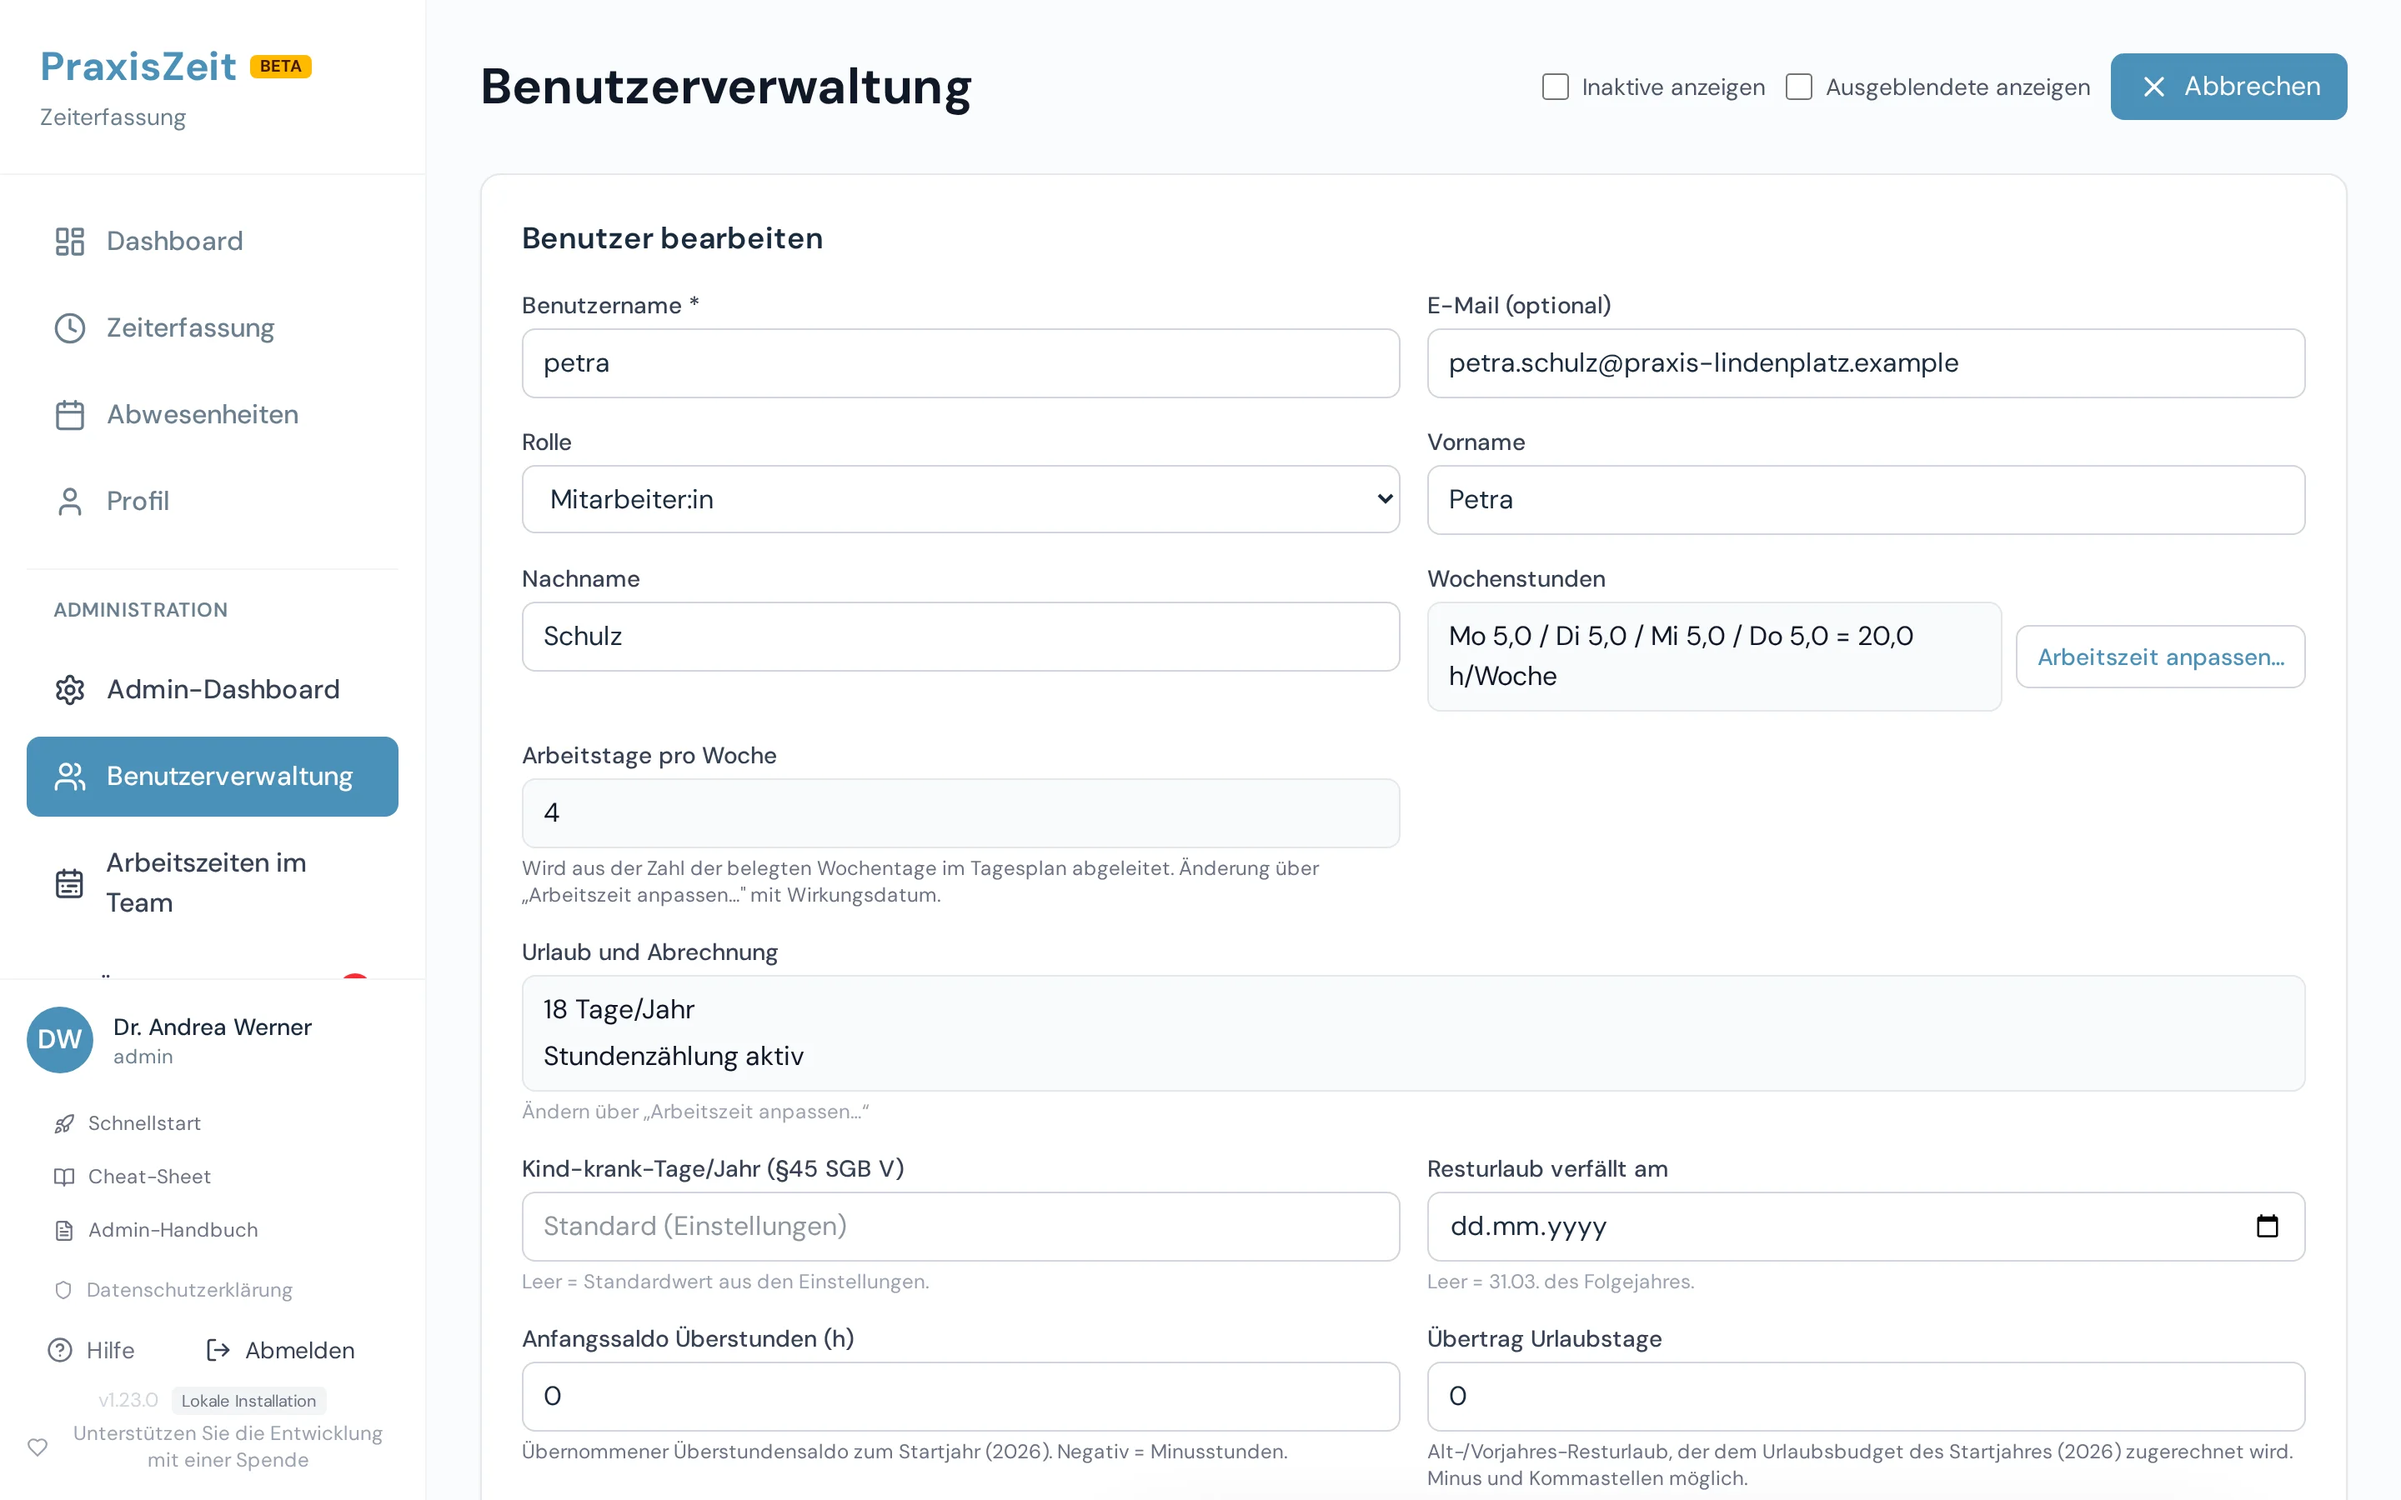
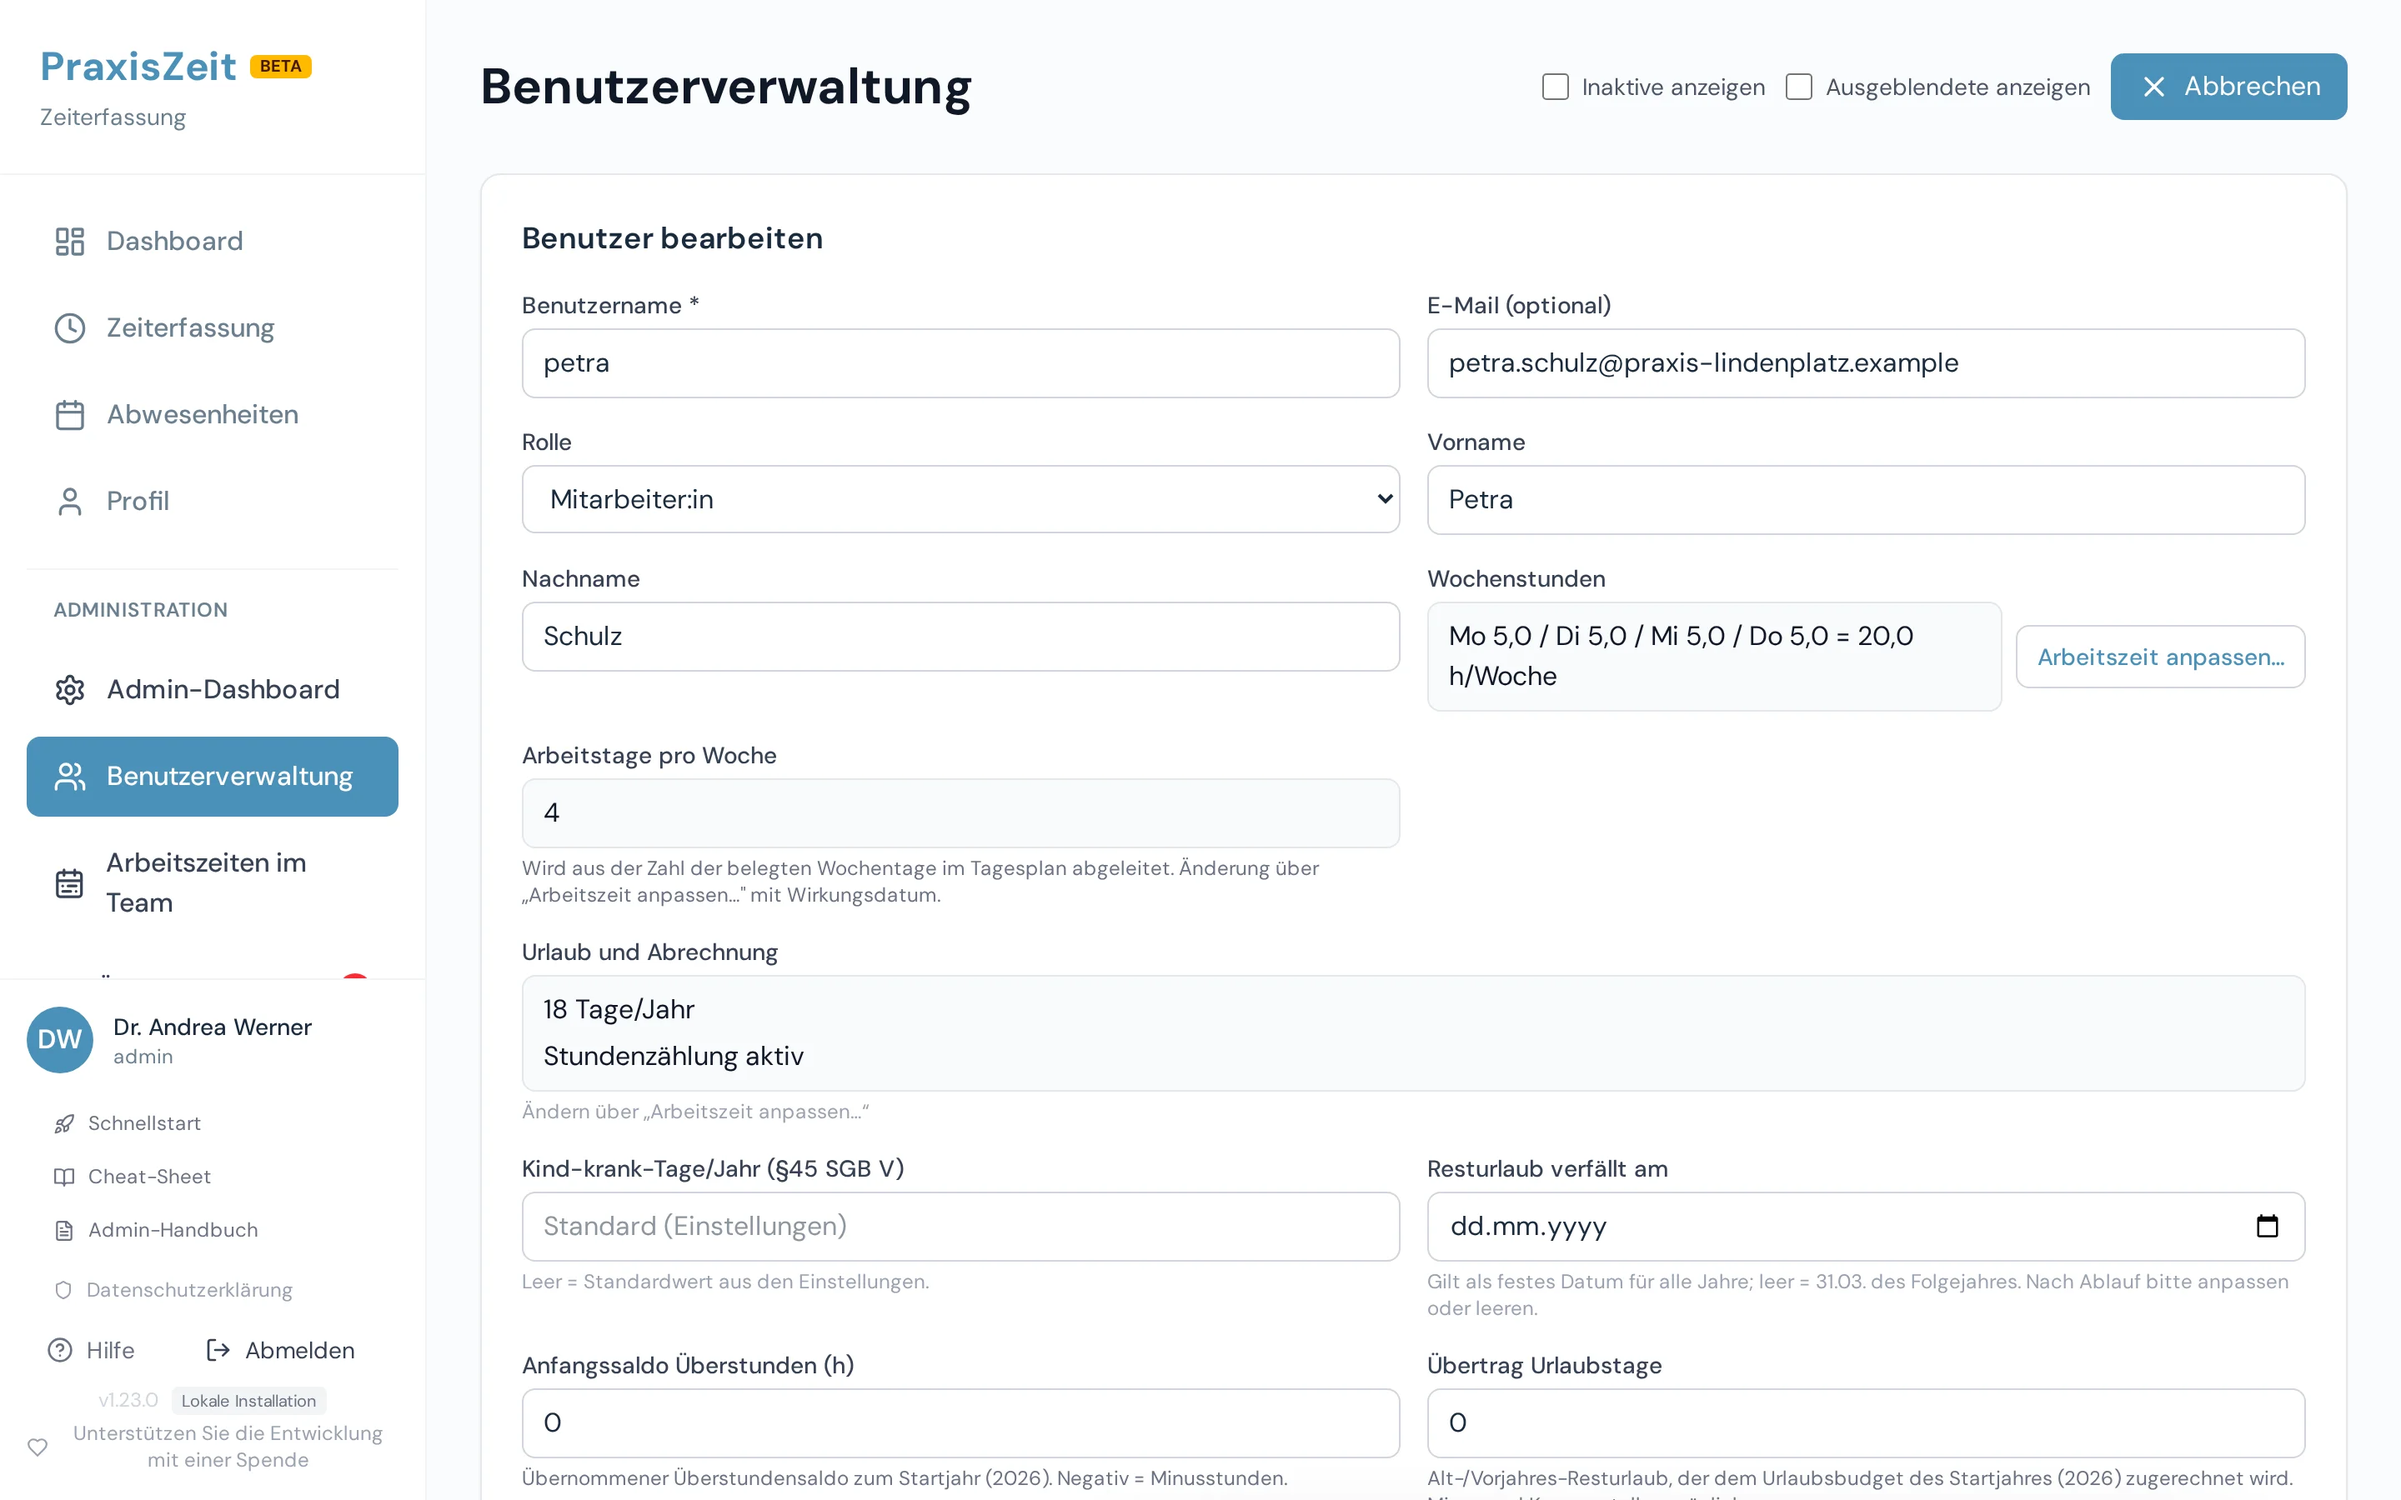
fix(frontend): Resturlaub-Frist als festes Datum kennzeichnen, Rahmen, pluralDe (R28)
Hinweis "Gilt als festes Datum fuer alle Jahre ..." plus nicht blockierende
Warnung bei Datum in der Vergangenheit; zwei Selects mit border; Import-Zaehler
ueber pluralDe; Handbuchtext, CHANGELOG, Shots pl-bearbeiten/pl-import-vorschau.

diff --git a/frontend/src/pages/admin/users/UserForm.test.tsx b/frontend/src/pages/admin/users/UserForm.test.tsx
@@ -988,3 +988,24 @@ describe('UserForm: Verfallsdatum Resturlaub je Person (P4.4)', () => {
     expect(screen.queryByLabelText(/Resturlaub verfällt am/)).not.toBeInTheDocument();
   });
 });
+
+describe('UserForm: Verfallsdatum ist ein festes Datum (P4.4, R28)', () => {
+  it('nennt im Hinweis die absolute Geltung für alle Jahre', () => {
+    renderForm({ editUser: baseEditUser });
+    expect(screen.getByText(/Gilt als festes Datum für alle Jahre; leer = 31\.03\. des Folgejahres\. Nach Ablauf bitte anpassen oder leeren\./)).toBeInTheDocument();
+  });
+
+  it('warnt (nicht blockierend) bei einem Datum in der Vergangenheit', async () => {
+    renderForm({ editUser: { ...baseEditUser, vacation_carryover_deadline: '2020-03-31' } });
+    expect(screen.getByRole('status')).toHaveTextContent(/liegt in der Vergangenheit/);
+    fireEvent.submit(document.querySelector('form')!);
+    await waitFor(() => expect(putMock).toHaveBeenCalled());
+  });
+
+  it('warnt nicht bei einem Datum in der Zukunft oder leer', () => {
+    renderForm({ editUser: { ...baseEditUser, vacation_carryover_deadline: '2999-03-31' } });
+    expect(screen.queryByRole('status')).not.toBeInTheDocument();
+    fireEvent.change(screen.getByLabelText(/Resturlaub verfällt am/), { target: { value: '' } });
+    expect(screen.queryByRole('status')).not.toBeInTheDocument();
+  });
+});

diff --git a/frontend/src/handbuch/content/praxisleitung.ts b/frontend/src/handbuch/content/praxisleitung.ts
@@ -1149,7 +1149,7 @@ export const praxisleitung: Handbook = {
             { text: '**Wochenstunden** und Arbeitstage stehen nur als Anzeige da – immer die heute gültigen Werte.' },
             { n: 1, text: '[[Arbeitszeit anpassen…]] öffnet den Dialog „Arbeitszeit & Wochenstunden“; dort ändern Sie mit Wirkungsdatum.' },
             { n: 2, text: '**Urlaub und Abrechnung:** Urlaubsanspruch, Stundenzählung und Minijob-Einstellungen, ebenfalls nur Anzeige („Ändern über „Arbeitszeit anpassen…““).' },
-            { text: '**Resturlaub verfällt am:** eine eigene Verfallsfrist für diese Person; leer gilt der 31.03. des Folgejahres. Das Datum steht im Urlaubskonto der Person und in der Jahresend-Warnung der Verwaltung.' },
+            { text: '**Resturlaub verfällt am:** eine eigene Verfallsfrist für diese Person. Es ist ein festes Datum für alle Jahre – nach Ablauf anpassen oder leeren; leer gilt der 31.03. des Folgejahres. Liegt das Datum in der Vergangenheit, warnt das Formular (Speichern bleibt möglich). Das Datum steht im Urlaubskonto der Person und in der Jahresend-Warnung der Verwaltung.' },
           ],
         },
         {

diff --git a/frontend/src/pages/admin/users/UserForm.tsx b/frontend/src/pages/admin/users/UserForm.tsx
@@ -715,7 +715,15 @@ export default function UserForm({
                 onChange={(e) => setFormData({ ...formData, vacation_carryover_deadline: e.target.value })}
                 className="w-full px-3 py-2 border border-gray-300 rounded-lg focus:ring-2 focus:ring-primary"
               />
-              <p className="mt-1 text-xs text-gray-400">Leer = 31.03. des Folgejahres.</p>
+              <p className="mt-1 text-xs text-gray-400">
+                Gilt als festes Datum für alle Jahre; leer = 31.03. des Folgejahres. Nach Ablauf bitte anpassen oder leeren.
+              </p>
+              {formData.vacation_carryover_deadline &&
+                formData.vacation_carryover_deadline < new Date().toISOString().slice(0, 10) && (
+                  <p role="status" className="mt-1 text-xs text-amber-700">
+                    Dieses Datum liegt in der Vergangenheit — der Resturlaub gälte damit schon als verfallen. Bitte anpassen oder leeren.
+                  </p>
+                )}
             </div>
           )}
           {effTrackHours && (

diff --git a/frontend/src/pages/admin/ShiftPlanning.tsx b/frontend/src/pages/admin/ShiftPlanning.tsx
@@ -678,7 +678,7 @@ export default function AdminShiftPlanning() {
                     <select
                       value={dayWeekday}
                       onChange={(e) => setDayWeekday(Number(e.target.value))}
-                      className="rounded-lg border-gray-300 text-sm py-1"
+                      className="rounded-lg border border-gray-300 text-sm py-1"
                     >
                       {/* #371: only enabled weekdays are selectable */}
                       {planningWeekdays.map((i) => (

diff --git a/frontend/src/pages/admin/AdminDashboard.tsx b/frontend/src/pages/admin/AdminDashboard.tsx
@@ -701,7 +701,7 @@ export default function AdminDashboard() {
             <select
               value={sollBasis}
               onChange={(e) => setSollBasis(e.target.value as 'bis_heute' | 'monatsende')}
-              className="rounded border-gray-300 text-sm py-1"
+              className="rounded border border-gray-300 text-sm py-1"
               title="Soll nur bis zum letzten abgeschlossenen Arbeitstag oder für den vollen Zeitraum"
             >
               <option value="bis_heute">bis heute</option>

diff --git a/frontend/src/pages/admin/ImportXls.tsx b/frontend/src/pages/admin/ImportXls.tsx
@@ -301,7 +301,7 @@ export default function ImportXls() {
         {/* Zusammenfassung */}
         <div className="flex flex-wrap gap-4 mb-4 text-sm">
           <span className="text-gray-600">
-            <strong>{preview.total}</strong> {preview.total === 1 ? 'Eintrag' : 'Einträge'} gefunden
+            {pluralDe(preview.total, 'Eintrag', 'Einträge')} gefunden
           </span>
           {preview.conflicts > 0 && (
             <span className="text-red-600 font-medium">

diff --git a/CHANGELOG.md b/CHANGELOG.md
@@ -4,7 +4,7 @@
 
 ### ✨ Neu
 
-- **Verfallsdatum des Resturlaubs je Person im Benutzerformular.** Beim Bearbeiten gibt es das Feld „Resturlaub verfällt am“ (leer = 31.03. des Folgejahres); das Dashboard der Person und die Jahresend-Warnung der Verwaltung nutzen es bereits.
+- **Verfallsdatum des Resturlaubs je Person im Benutzerformular.** Beim Bearbeiten gibt es das Feld „Resturlaub verfällt am“ (ein festes Datum für alle Jahre – nach Ablauf anpassen oder leeren; leer = 31.03. des Folgejahres; ein Datum in der Vergangenheit wird mit einem Hinweis markiert); das Dashboard der Person und die Jahresend-Warnung der Verwaltung nutzen es bereits.
 
 ### 🐛 Behoben (Funde beim Schreiben der Handbücher)
 
